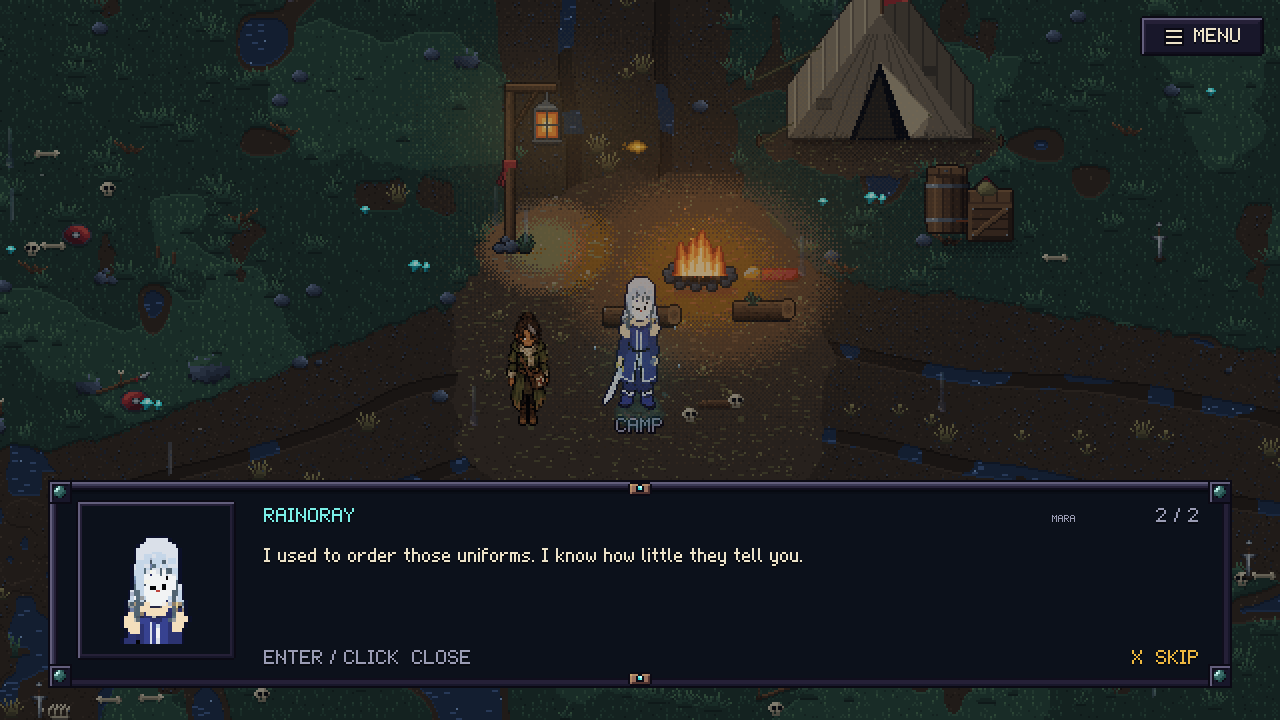
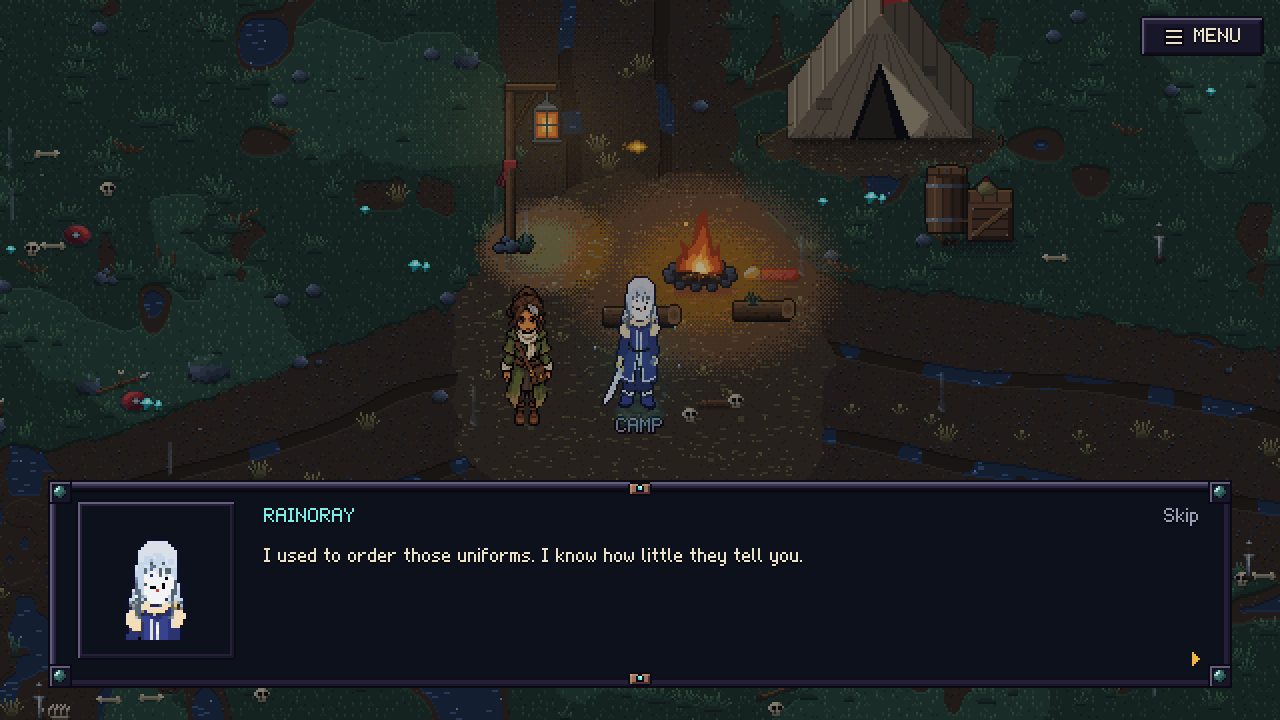
fix(art): align camp sprites and simplify dialogue

diff --git a/src/DialogueRenderer.java b/src/DialogueRenderer.java
@@ -5,13 +5,22 @@ import java.awt.image.BufferedImage;
 public final class DialogueRenderer {
     private static final BufferedImage MARA_SHEET=B2BJ.loadImage("assets/characters/npcs/mara_sheet.png");
     private static final BufferedImage MARA=cell(MARA_SHEET,0,0,MARA_SHEET==null?0:MARA_SHEET.getHeight(),64);
-    private static final BufferedImage MARA_BODY=cell(MARA_SHEET,MARA_SHEET==null?0:MARA_SHEET.getHeight(),0,
-            MARA_SHEET==null?0:MARA_SHEET.getHeight(),64);
-    private static final BufferedImage BLOB=B2BJ.loadImage("assets/ui/blob.png");
-    private static final BufferedImage BLADE=cell(B2BJ.loadImage("assets/characters/blade/rainoray_idle.png"),20,0,40,64);
+    private static final BufferedImage MARA_BODY=fit("assets/characters/npcs/mara_idle.png",80);
+    private static final BufferedImage BLOB=fit("assets/characters/slime/rainoray_portrait.png",64);
+    private static final BufferedImage BLADE=cell(B2BJ.loadImage("assets/characters/blade/rainoray_idle.png"),20,0,40,40);
     private static final BufferedImage WARDEN=cell(B2BJ.loadImage("assets/characters/guardian/warden_motion.png"),0,0,64,64);
 
     private DialogueRenderer() { }
+
+    private static BufferedImage fit(String path,int target) {
+        var source=B2BJ.loadImage(path);
+        if(source==null)return null;
+        double scale=(double)target/Math.max(source.getWidth(),source.getHeight());
+        int width=(int)Math.round(source.getWidth()*scale),height=(int)Math.round(source.getHeight()*scale);
+        var image=new BufferedImage(target,target,BufferedImage.TYPE_INT_ARGB);
+        var g=image.createGraphics();Ui.crisp(g);
+        g.drawImage(source,(target-width)/2,(target-height)/2,width,height,null);g.dispose();return image;
+    }
 
     private static BufferedImage cell(BufferedImage source,int x,int y,int size,int target) {
         if(source==null||size<=0||x+size>source.getWidth()||y+size>source.getHeight())return null;
@@ -33,21 +42,25 @@ public final class DialogueRenderer {
             case WARDEN -> WARDEN;
             case RAINORAY -> game.player().bladeForm()?BLADE:BLOB;
         };
-        if(portrait!=null)g.drawImage(portrait,92,y+36,128,128,null);
+        int size=portrait==BLADE?120:128;
+        if(portrait!=null)g.drawImage(portrait,156-size/2,y+100-size/2,size,size,null);
         String speaker=line.speaker()==OutpostDialogue.Speaker.WARDEN?"OUTPOST WARDEN":line.speaker().name();
         Ui.text(g,speaker,264,y+42,2,line.speaker()==OutpostDialogue.Speaker.MARA?Ui.GOLD:Ui.CYAN);
-        Ui.textRight(g,scene.title(),width-204,y+42,1,Ui.MUTED);
-        Ui.textRight(g,(game.dialogueIndex()+1)+" / "+scene.lines().size(),width-80,y+42,2,Ui.MUTED);
+        Ui.textRight(g,"Skip",width-80,y+42,2,Ui.MUTED);
         Ui.wrapped(g,line.text(),264,y+82,width-352,2,30,3,Ui.TEXT);
-        Ui.text(g,"ENTER / CLICK  "+(game.dialogueIndex()+1==scene.lines().size()?"CLOSE":"CONTINUE"),264,y+184,2,Ui.MUTED);
-        Ui.textRight(g,"X  SKIP",width-80,y+184,2,Ui.GOLD);
+        g.setColor(Ui.GOLD);
+        for(int step=0;step<4;step++)g.fillRect(width-88+step*2,y+172+step*2,2,14-step*4);
+    }
+
+    static boolean skipHit(int x,int y,int width,int height) {
+        return new java.awt.Rectangle(width-152,height-226,88,44).contains(x,y);
     }
 
     public static void drawMara(Graphics2D g,RuinedOutpostGame game,int cameraX,int cameraY) {
         if(MARA_BODY==null)return;
         var hub=game.campaignArea().hub();
-        int x=(int)hub.x()-112-cameraX,y=(int)hub.y()+64-cameraY;
-        g.drawImage(MARA_BODY,x-64,y-120,128,128,null);
-        if(game.nearCampaignHub()&&!game.blocked())Ui.outlinedCentered(g,"MARA",x,y-126,1,Ui.GOLD);
+        int x=(int)Math.round((hub.x()-112)/2)*2-cameraX,y=(int)Math.round((hub.y()+64)/2)*2-cameraY;
+        g.drawImage(MARA_BODY,x-80,y-148,160,160,null);
+        if(game.nearCampaignHub()&&!game.blocked())Ui.outlinedCentered(g,"MARA",x,y-144,1,Ui.GOLD);
     }
 }

diff --git a/test/OutpostDialogueTest.java b/test/OutpostDialogueTest.java
@@ -18,6 +18,11 @@ public final class OutpostDialogueTest {
         }
         var art=B2BJ.loadImage("assets/characters/npcs/mara_sheet.png");
         assert art!=null&&art.getWidth()==art.getHeight()*2&&art.getColorModel().hasAlpha();
+        for(String path:new String[]{"assets/characters/npcs/mara_idle.png","assets/characters/slime/rainoray_portrait.png"}) {
+            var sprite=B2BJ.loadImage(path);
+            assert sprite!=null&&sprite.getColorModel().hasAlpha();
+            assert Math.abs(sprite.getWidth()-sprite.getHeight())<sprite.getHeight()*.1;
+        }
         SwingUtilities.invokeAndWait(()->{
             try { inputAndRendering(args.length==0?null:Path.of(args[0])); }
             catch(Exception e) { throw new AssertionError(e); }
@@ -113,6 +118,8 @@ public final class OutpostDialogueTest {
         var rendered=paint(panel);
         assert panel.getAccessibleContext().getAccessibleDescription().contains("Easy.");
         if(output!=null) {Files.createDirectories(output);javax.imageio.ImageIO.write(rendered,"png",output.resolve("mara-conversation.png").toFile());}
+        game.advanceDialogue();
+        if(output!=null)javax.imageio.ImageIO.write(paint(panel),"png",output.resolve("slime-conversation.png").toFile());
         while(game.dialogueIndex()<game.dialogue().lines().size()-1)game.advanceDialogue();
         click(panel);assert game.dialogue()==null&&game.projectiles().isEmpty();
         panel.step(.1);assert game.projectiles().isEmpty() : "closing click must not fire";
@@ -121,16 +128,23 @@ public final class OutpostDialogueTest {
         var human=paint(panel);
         if(output!=null)javax.imageio.ImageIO.write(human,"png",output.resolve("rainoray-conversation.png").toFile());
         game.skipDialogue();
+        for(int i=0;i<120;i++)panel.step(.05);
+        if(output!=null)javax.imageio.ImageIO.write(paint(panel),"png",output.resolve("camp-human-scale.png").toFile());
         game.player().relocate(game.guardian().x()+300,game.guardian().y());game.update(.01,0,0);
         assert game.dialogue()==OutpostDialogue.WARDEN;
         if(output!=null)javax.imageio.ImageIO.write(paint(panel),"png",output.resolve("warden-conversation.png").toFile());
+        click(panel,1190,516);
+        assert game.dialogue()==null&&game.projectiles().isEmpty() : "the quiet Skip target must skip, not attack";
     }
 
     private static void finish(RuinedOutpostGame game) {while(game.dialogue()!=null)assert game.advanceDialogue();}
     private static void press(B2BJ panel,String key) {panel.getActionMap().get(key+"Pressed").actionPerformed(new ActionEvent(panel,0,key));}
     private static void release(B2BJ panel,String key) {panel.getActionMap().get(key+"Released").actionPerformed(new ActionEvent(panel,0,key));}
     private static void click(B2BJ panel) {
-        var click=new MouseEvent(panel,MouseEvent.MOUSE_PRESSED,0,0,600,600,1,false,MouseEvent.BUTTON1);
+        click(panel,600,600);
+    }
+    private static void click(B2BJ panel,int x,int y) {
+        var click=new MouseEvent(panel,MouseEvent.MOUSE_PRESSED,0,0,x,y,1,false,MouseEvent.BUTTON1);
         for(var listener:panel.getMouseListeners())listener.mousePressed(click);
     }
     private static BufferedImage paint(B2BJ panel) {

diff --git a/test/CampArtTest.java b/test/CampArtTest.java
@@ -1,0 +1,36 @@
+import java.awt.image.BufferedImage;
+import java.util.Arrays;
+import java.util.HashSet;
+
+public final class CampArtTest {
+    public static void main(String[] args) throws Exception {
+        var fire=B2BJ.loadImage("assets/effects/fire_camp.png");
+        assert fire!=null&&fire.getWidth()==240&&fire.getHeight()==40;
+        var colours=new HashSet<Integer>();var frames=new HashSet<Integer>();
+        for(int frame=0;frame<8;frame++) {
+            int[] pixels=fire.getRGB(frame*30,0,30,40,null,0,30);int opaque=0;
+            for(int pixel:pixels) {
+                int alpha=pixel>>>24;
+                assert alpha==0||alpha==255 : "camp flames need hard pixel edges";
+                if(alpha!=0) {colours.add(pixel);opaque++;}
+            }
+            assert opaque>150&&opaque<650 : "each frame needs a complete flame and transparent margin";
+            frames.add(Arrays.hashCode(pixels));
+        }
+        assert colours.size()<=6&&frames.size()>=6 : "flat palette, real animated silhouettes";
+        var field=DialogueRenderer.class.getDeclaredField("MARA_BODY");field.setAccessible(true);
+        var mara=(BufferedImage)field.get(null);
+        var hero=B2BJ.loadImage("assets/characters/blade/rainoray_idle.png").getSubimage(0,0,80,80);
+        assert mara.getWidth()==80&&mara.getHeight()==80 : "humans share the 80-pixel frame at 2x";
+        int humanHeight=visibleHeight(hero),maraHeight=visibleHeight(mara);
+        assert Math.abs(humanHeight-maraHeight)<=humanHeight*.15 : "Mara must fit the player's human scale";
+        System.out.println("CampArtTest passed: flat animated flames; human heights "+humanHeight+" / "+maraHeight);
+    }
+
+    private static int visibleHeight(BufferedImage image) {
+        int top=image.getHeight(),bottom=-1;
+        for(int y=0;y<image.getHeight();y++)for(int x=0;x<image.getWidth();x++)
+            if(image.getRGB(x,y)>>>24>=128) {top=Math.min(top,y);bottom=Math.max(bottom,y);}
+        return bottom-top+1;
+    }
+}

diff --git a/tools/art/BuildArt.java b/tools/art/BuildArt.java
@@ -8,6 +8,7 @@ public final class BuildArt {
         String what = args.length > 0 && !args[0].startsWith("--") ? args[0] : "all";
         long t = System.nanoTime();
         if (what.equals("all") || what.equals("props")) props();
+        if (what.equals("campfire")) campfire();
         if (what.equals("all") || what.equals("ground")) ground();
         if (what.equals("all") || what.equals("forest")) forest();
         if (what.equals("all") || what.equals("ui")) ui();
@@ -20,9 +21,9 @@ public final class BuildArt {
         Canvas.strip(Props.supplies(0), Props.supplies(1), Props.supplies(2), Props.supplies(3)).save("assets/props/outpost/supplies.png");
         Decals.sheet().save("assets/tilesets/outpost/outpost_decals.png");
         for (var kind : SetPieces.Kind.values()) Structures.sheet(kind).save(kind.sheet());
-        Canvas[] camp = new Canvas[8], brazier = new Canvas[8];
-        for (int f = 0; f < 8; f++) { camp[f] = Kit.fire(30, 40, f, 8, 5, 77); brazier[f] = Kit.fire(22, 30, f, 8, 4, 91); }
-        Canvas.strip(camp).save("assets/effects/fire_camp.png");
+        campfire();
+        Canvas[] brazier = new Canvas[8];
+        for (int f = 0; f < 8; f++) brazier[f] = Kit.fire(22, 30, f, 8, 4, 91);
         Canvas.strip(brazier).save("assets/effects/fire_brazier.png");
         WardenArt.build();
         BossArt.briarheart().save("assets/characters/guardian/briarheart_motion.png");
@@ -46,6 +47,12 @@ public final class BuildArt {
         LogoArt.logo().save("assets/ui/title/logo.png");
         TitleArt.build();
         UiArt.splash().save("assets/ui/splash.png");
+    }
+
+    static void campfire() {
+        Canvas[] frames=new Canvas[8];
+        for(int f=0;f<frames.length;f++)frames[f]=Kit.campfire(f);
+        Canvas.strip(frames).save("assets/effects/fire_camp.png");
     }
 
     static void forest() {

diff --git a/tools/art/Kit.java b/tools/art/Kit.java
@@ -101,6 +101,24 @@ final class Kit {
     static void rope(Canvas c, int x0, int y0, int x1, int y1, int colour) { c.line(x0, y0, x1, y1, colour); }
 
     // ------------------------------------------------------------------ fire
+    /** Flat colour clusters keep the camp flame readable at the world's native pixel scale. */
+    static Canvas campfire(int frame) {
+        Canvas c=new Canvas(30,40);
+        int f=Math.floorMod(frame,8);
+        int lean=new int[]{-1,-1,0,1,2,1,0,-1}[f];
+        int rise=new int[]{0,1,2,1,0,-1,-2,-1}[f];
+        poly(c,Pal.FIRE[1],3,37,3,31,6,27,5,21-rise,10,26,12,19,11+lean,11,
+                16+lean,6+rise,17+lean,15,21,21,22,27,25,22+rise,25,30,27,34,26,38);
+        poly(c,Pal.FIRE[2],5,36,6,30,10,33,9,27,13,22,15+lean,13+rise,
+                19,23,21,31,23,28,25,34,24,37);
+        poly(c,Pal.FIRE[3],8,36,8,32,12,27,13,30,16+lean,22+rise,18,28,20,32,22,35,21,37);
+        poly(c,Pal.FIRE[4],11,37,11,33,14+lean,27+rise,16,32,18,30,20,36,19,38);
+        poly(c,Pal.FIRE[5],13,37,13,34,15,31+rise,17,34,18,37);
+        if(f<3)c.rect(22,9-f*3,2,2,Pal.FIRE[3]);
+        if(f>=4&&f<7)c.rect(7,12-(f-4)*3,2,2,Pal.FIRE[4]);
+        return c;
+    }
+
     /**
      * One frame of a looping fire, `frames` frames per loop. Tongues sway and breathe out of phase;
      * the core burns white-yellow, the rim red; embers rise and wink out above.

diff --git a/src/OutpostLights.java b/src/OutpostLights.java
@@ -41,12 +41,13 @@ final class OutpostLights {
         for (var light : SetPieces.lights(game.biome())) {
             index++;
             if (arenaCold && light.fire() && Math.hypot(light.x() - gatehouse.x(), light.y() - gatehouse.y()) < 470) continue;
-            double sx = light.x() - cx, sy = light.y() - cy, r = light.radius();
+            boolean campfire=light.colour()==0xffa040;
+            double sx = light.x() - cx, sy = light.y() - cy, r = light.radius()*(campfire?.72:1);
             if (sx < -r || sy < -r || sx > 1280 + r || sy > 720 + r) continue;
             // fires breathe between three sizes; lamps and Ichor hold steady
             int step = light.fire() && !reduced ? Math.floorMod((frame / 5 + index * 7) * 2654435761L >>> 7, 3) : 1;
             int radius = (int) Math.round(r / 2 * (.96 + step * .04));
-            disc(g, glow(radius, light.colour(), light.fire() ? 64 : 52), sx, sy, radius);
+            disc(g, glow(radius, light.colour(), campfire?36:light.fire()?64:52), sx, sy, radius);
         }
         var player = game.player();
         if (player.alive()) disc(g, glow(46, 0x2cc6c8, 34), player.x() - cx, player.y() - cy, 46);

diff --git a/test/PackagedAssetLoadingTest.java b/test/PackagedAssetLoadingTest.java
@@ -8,6 +8,7 @@ public final class PackagedAssetLoadingTest {
         ForestArtTest.main(new String[0]);      // the forest floor, its stamp, tileset and every forest sheet, from the jar too
         WardenFxTest.main(new String[0]);       // cleaned spike sheets and natural boss cues work from packaged assets
         OutpostDialogueTest.main(new String[0]);
+        CampArtTest.main(new String[0]);
         System.out.println("PackagedAssetLoadingTest passed");
     }
 
@@ -28,6 +29,8 @@ public final class PackagedAssetLoadingTest {
                 "assets/characters/slime/slime_effects.png",
                 "assets/characters/slime/slime_idle.png",
                 "assets/characters/npcs/mara_sheet.png",
+                "assets/characters/npcs/mara_idle.png",
+                "assets/characters/slime/rainoray_portrait.png",
                 "assets/ui/pixel_font.png",
                 "assets/ui/kit.png",
                 "assets/ui/splash.png",

diff --git a/src/B2BJ.java b/src/B2BJ.java
@@ -245,7 +245,11 @@ public final class B2BJ extends JPanel {
                     return;
                 }
                 if(game.dialogue()!=null) {
-                    if(event.getButton()==MouseEvent.BUTTON1) {clearGameplayInput();game.advanceDialogue();}
+                    if(event.getButton()==MouseEvent.BUTTON1) {
+                        clearGameplayInput();
+                        if(DialogueRenderer.skipHit(event.getX(),event.getY(),WIDTH,HEIGHT))game.skipDialogue();
+                        else game.advanceDialogue();
+                    }
                     return;
                 }
                 if (game.story().phase() == OutpostStory.Phase.PROLOGUE) {

diff --git a/src/RuinedOutpostGame.java b/src/RuinedOutpostGame.java
@@ -315,9 +315,7 @@ public final class RuinedOutpostGame {
         if(dialogue==null||paused)return false;
         campaignUnlocks.add(dialogue.key());
         if(dialogue==OutpostDialogue.CAMP_LATE)campaignUnlocks.add(OutpostDialogue.CAMP.key());
-        boolean opening=dialogue==OutpostDialogue.WAKE;
         dialogue=null;dialogueIndex=0;
-        if(opening)notice("FIND MARA AT CAPTAIN CAMP");
         saveProgress();return true;
     }
     public int biome() { return biome; }

diff --git a/docs/art-review/area-one-story/polish-art.md b/docs/art-review/area-one-story/polish-art.md
@@ -1,0 +1,30 @@
+# Camp and portrait polish — 2026-10-23
+
+User review rejected the old HUD icon as a dialogue portrait, the thin Mara sprite, the large control footer and the campfire's smooth-looking flame.
+
+## Current assets
+
+- [Rainoray slime portrait](../../../assets/characters/slime/rainoray_portrait.png): generated from the current idle sheet, retaining the curled tip, face and five-point star. Sampled once to 64 × 64 and drawn at 2×.
+- [Mara standing sprite](../../../assets/characters/npcs/mara_idle.png): a separate, clearer world sprite. Fitted to an 80 × 80 frame with aspect ratio preserved, then drawn at the same 2× scale as human Rainoray. Opaque heights measure 70 and 67 native pixels respectively.
+- Mara's portrait still uses the left half of [the original sheet](../../../assets/characters/npcs/mara_sheet.png). Its earlier right-hand world sprite is no longer rendered.
+- Rainoray's human portrait uses a 40 × 40 crop of the current masked sprite at exact 3× scale. The Warden uses its current 64 × 64 art at 2×.
+- [Campfire sheet](../../../assets/effects/fire_camp.png): eight 30 × 40 frames, five opaque flame colors and transparent background. Drawn by `Kit.campfire`, with flat flame clusters and small square embers. Runtime stays at 2×. The camp's dynamic glow is smaller and dimmer.
+- [Editable campfire](../../../assets/source/shared/fire_camp.pixie-dust): updated only after confirming the old project had one layer and matched the previous PNG exactly. The updated project was exported and compared pixel-for-pixel with the new runtime sheet.
+
+The dialogue panel now shows the portrait, speaker, line, a small next arrow and a clickable **Skip** label. Keyboard shortcuts remain in the Controls menu and accessibility description. The large footer, chapter label, line counter and duplicate opening notice were removed.
+
+## Generation records
+
+Both new character assets use the built-in imagegen tool. Generated originals were copied unchanged into the project. Pixel-size fitting happens once when the renderer loads them, using nearest-neighbor interpolation.
+
+### Rainoray portrait prompt
+
+Use case: illustration-story. Create ONE production pixel-art dialogue portrait of Rainoray in slime form for the existing RPG. The supplied sprite sheet is an IDENTITY reference: use its first idle frame. Preserve the round low cyan slime body, the little curled tip at the top, the small black oval eyes with tiny highlights, the small friendly smile, and the pale gold FIVE-POINT STAR suspended inside the lower body. It must visibly be the same character. NO armor, NO clothes, NO necklace, NO circular badge, NO medallion, NO arms, NO legs. Portrait framing: the slime's face is prominent, the body fills most of one square, with the star visible below the mouth; 5 logical pixels of transparent margin around the silhouette. Strict clean pixel art matching the game's sprites: a 64 by 64 logical pixel canvas, enlarged by an integer for delivery; coarse visible square pixel clusters, dark teal stepped outline, 4 flat turquoise/cyan shades, pale cyan highlights, 2 gold star shades, no gradients, no airbrush, no blur, no tiny texture noise, no anti-aliasing. Calm attentive expression, looking toward the viewer. Transparent background. No scene, no frame, no UI, no letters. A single portrait, not a sprite sheet or multiple characters.
+
+Reference: `assets/characters/slime/slime_idle.png`.
+
+### Mara standing sprite prompt
+
+Use case: illustration-story. Create ONE standing overworld NPC sprite, Mara the field medic, for this top-down pixel RPG. Image 1 is her identity and outfit reference: retain brown skin, tied-back brown hair with one grey streak, cream scarf, moss-green long coat, brown boots and side satchel. Image 2 is the EXACT pixel density, anatomy, perspective, silhouette-size and style reference for the world sprite: match Rainoray's 80 by 80 frame scale. Produce a SINGLE 80 by 80 logical pixel square canvas, enlarged by an integer for delivery. Mara should occupy about 28 logical pixels in width at shoulders and 60 logical pixels from hair to boot soles. Feet baseline at logical y=72, body centered x=40. Human proportions like the reference, with readable face and head, not a tall thin realistic miniature. Front/down-facing idle stance with very slight overhead RPG perspective; boots planted shoulder-width, arms relaxed. Simplify the outfit to bold readable flat clusters: 3 olive shades, 3 cream shades, 3 skin/hair shades and a dark ink outline. Clear warm highlights, never nearly black all over. No fabric texture, no fine photographic detail, no gradients, no blur, no smooth edges. No ground shadow or background. Keep the satchel small and use a plain brass square clasp instead of a cross logo. One transparent isolated full-body character only. No portrait, no labels, no frame, no extra pose, no weapon. Use actual chunky low-resolution sprite pixels, not a high-resolution illustration covered in noise.
+
+References: `assets/characters/npcs/mara_sheet.png` and `assets/characters/blade/rainoray_idle.png`.

diff --git a/docs/art-review/area-one-story/README.md b/docs/art-review/area-one-story/README.md
@@ -6,9 +6,12 @@ The [story](../../design/area-one-story.md) is implemented in the campaign, usin
 - `rainoray-conversation.png`: the current masked Rainoray sprite supplies the human portrait.
 - `warden-conversation.png`: the Warden waits for its introduction before activating.
 - `mara-art.md`: generation prompt, source sheet and import details.
+- `slime-conversation.png`: Rainoray's corrected star-marked portrait and the quieter dialogue panel.
+- `camp-human-scale.png`: Mara beside human Rainoray, with the new animated campfire.
+- [Polish record](polish-art.md): replacement art, exact scale choices and generation prompts.
 
-Enter, E or left click advances. X skips. Escape pauses. Dialogue stops the simulation and clears held combat input. Optional discoveries and return conversations can be revisited; their rewards cannot be repeated.
+Enter, E or left click advances. X or the small Skip label skips. Escape pauses. Dialogue stops the simulation and clears held combat input. Optional discoveries and return conversations can be revisited; their rewards cannot be repeated. Control instructions stay in the Controls menu, not across the dialogue footer.
 
 `OutpostDialogueTest` checks frozen movement/enemies/Ichor, blocked attacks, pause, save/Continue, old save compatibility, one-time boss introduction, repeat rewards, keyboard-repeat suppression, closing-click safety, text wrapping, accessibility text and all portrait assets. `CampaignVictoryTest` covers a late first meeting with Mara, skipping the gate scene, both region exits and final completion. Existing UI tests now dismiss the opening before testing combat.
 
-Reproduce the captures by passing this directory as the output argument to `OutpostDialogueTest` after compiling the game and tests. The regular build also runs the dialogue test from `/tmp` against packaged assets. These are automated interaction/render checks; they do not replace a full uninterrupted campaign playthrough.
+`CampArtTest` checks the fire's hard alpha, limited palette, distinct animation frames and Mara's visible height against the current human sprite. Reproduce the captures by passing this directory as the output argument to `OutpostDialogueTest` after compiling the game and tests. The regular build also runs both tests from `/tmp` against packaged assets. These are automated interaction/render checks; they do not replace a full uninterrupted campaign playthrough.

diff --git a/docs/design/area-one-story.md b/docs/design/area-one-story.md
@@ -26,7 +26,7 @@ If he returns to camp first, Mara offers him a dry scarf. He is not sure he can 
 
 ## In-game delivery
 
-Dialogue is one readable line at a time, with the current speaker's portrait. Lines appear immediately; there is no forced typing delay. Enter, E or left click advances, X skips, and Escape opens the pause menu. Combat, movement, projectiles, cooldowns and Ichor drain stop while the panel is open.
+Dialogue is one readable line at a time, with the current speaker's portrait. Lines appear immediately; there is no forced typing delay. The panel has a small next arrow and a clickable Skip label. Enter, E or left click advances, X skips, and Escape opens the pause menu; shortcuts stay in Controls instead of a large dialogue footer. Combat, movement, projectiles, cooldowns and Ichor drain stop while the panel is open.
 
 | Moment | Trigger | Purpose |
 | --- | --- | --- |
@@ -48,8 +48,8 @@ Exact shipped lines live in [OutpostDialogue.java](../../src/OutpostDialogue.jav
 
 ## Art and persistence
 
-- Mara's portrait and standing sprite share [one transparent sheet](../../assets/characters/npcs/mara_sheet.png). [Generation record](../art-review/area-one-story/mara-art.md).
-- Rainoray's human portrait comes from the current masked sprite, with the single red nose dot. Blob and Warden portraits reuse their existing art.
+- Mara's portrait uses the left half of [the original sheet](../../assets/characters/npcs/mara_sheet.png); her [standing sprite](../../assets/characters/npcs/mara_idle.png) matches the player's world scale. [Art and generation records](../art-review/area-one-story/polish-art.md).
+- Rainoray's human portrait comes from the current masked sprite. His [slime portrait](../../assets/characters/slime/rainoray_portrait.png) matches the current star-marked body. The Warden portrait uses its existing art.
 - Story completion uses the existing version-one save's `unlocks` set. Existing health upgrades, shards, checkpoints and cleared bosses are preserved. Continue does not force the new opening onto an older save.
 - Test/admin sessions retain their existing protection against overwriting normal saves.
 - Portraits are static. No voice acting or animated facial expressions are included.
